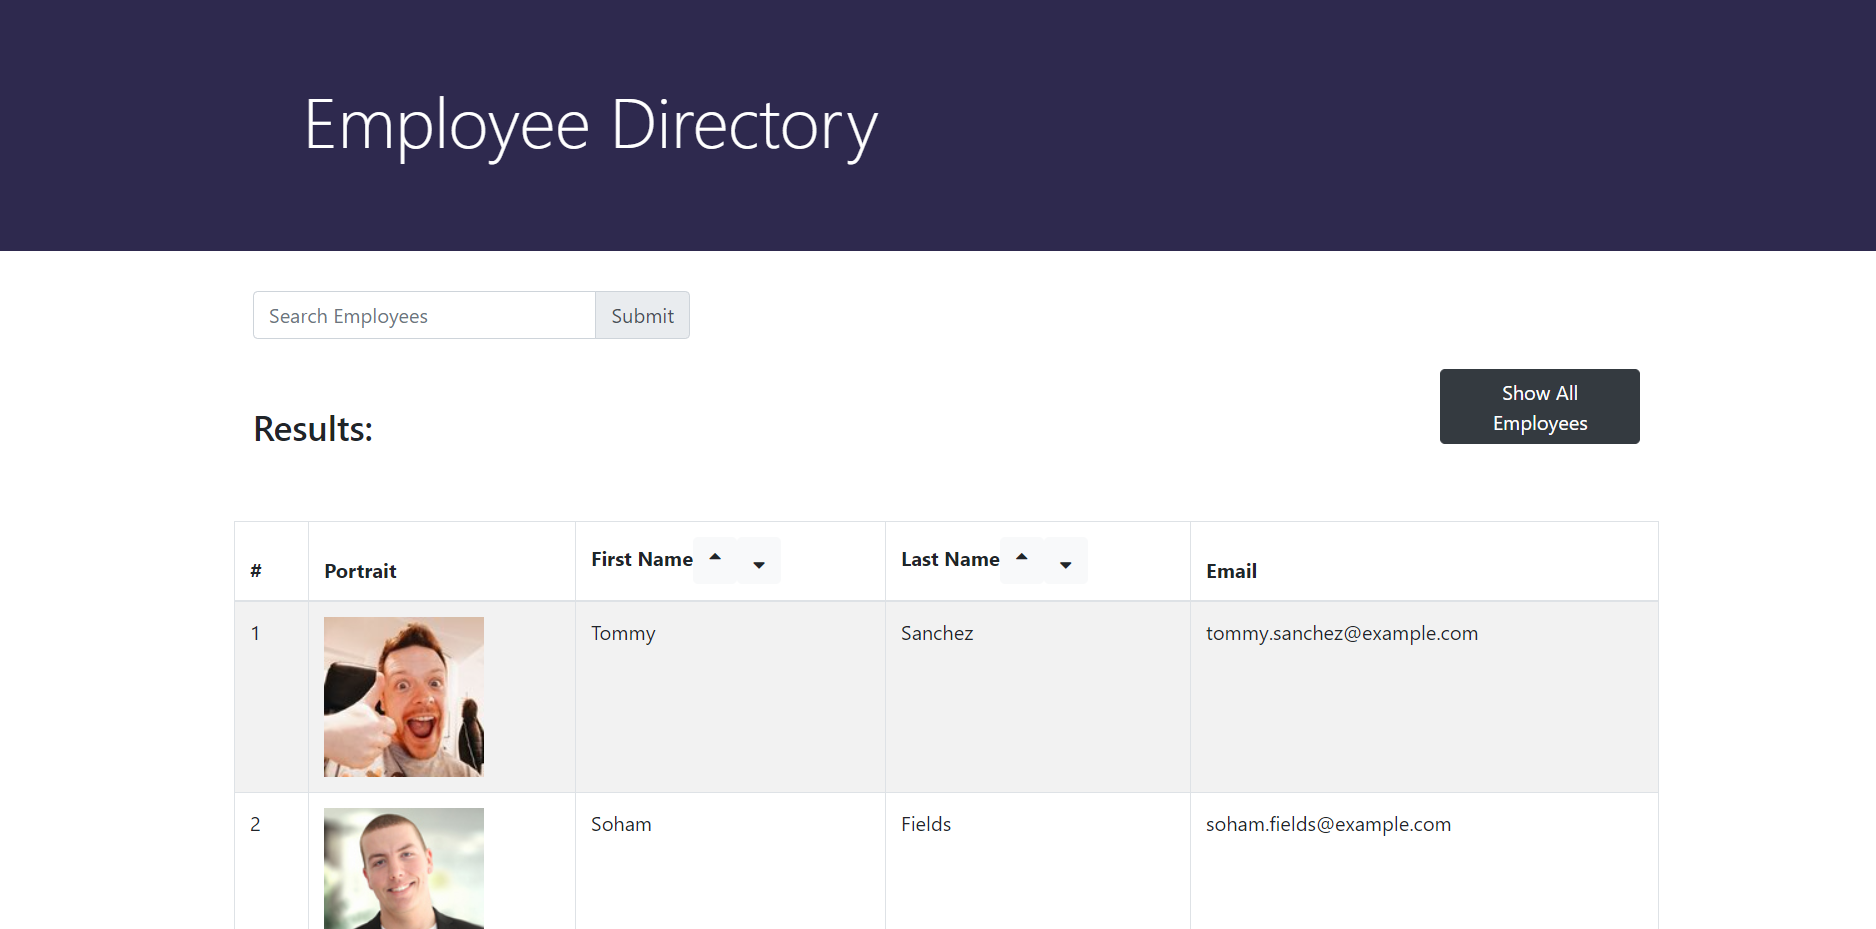
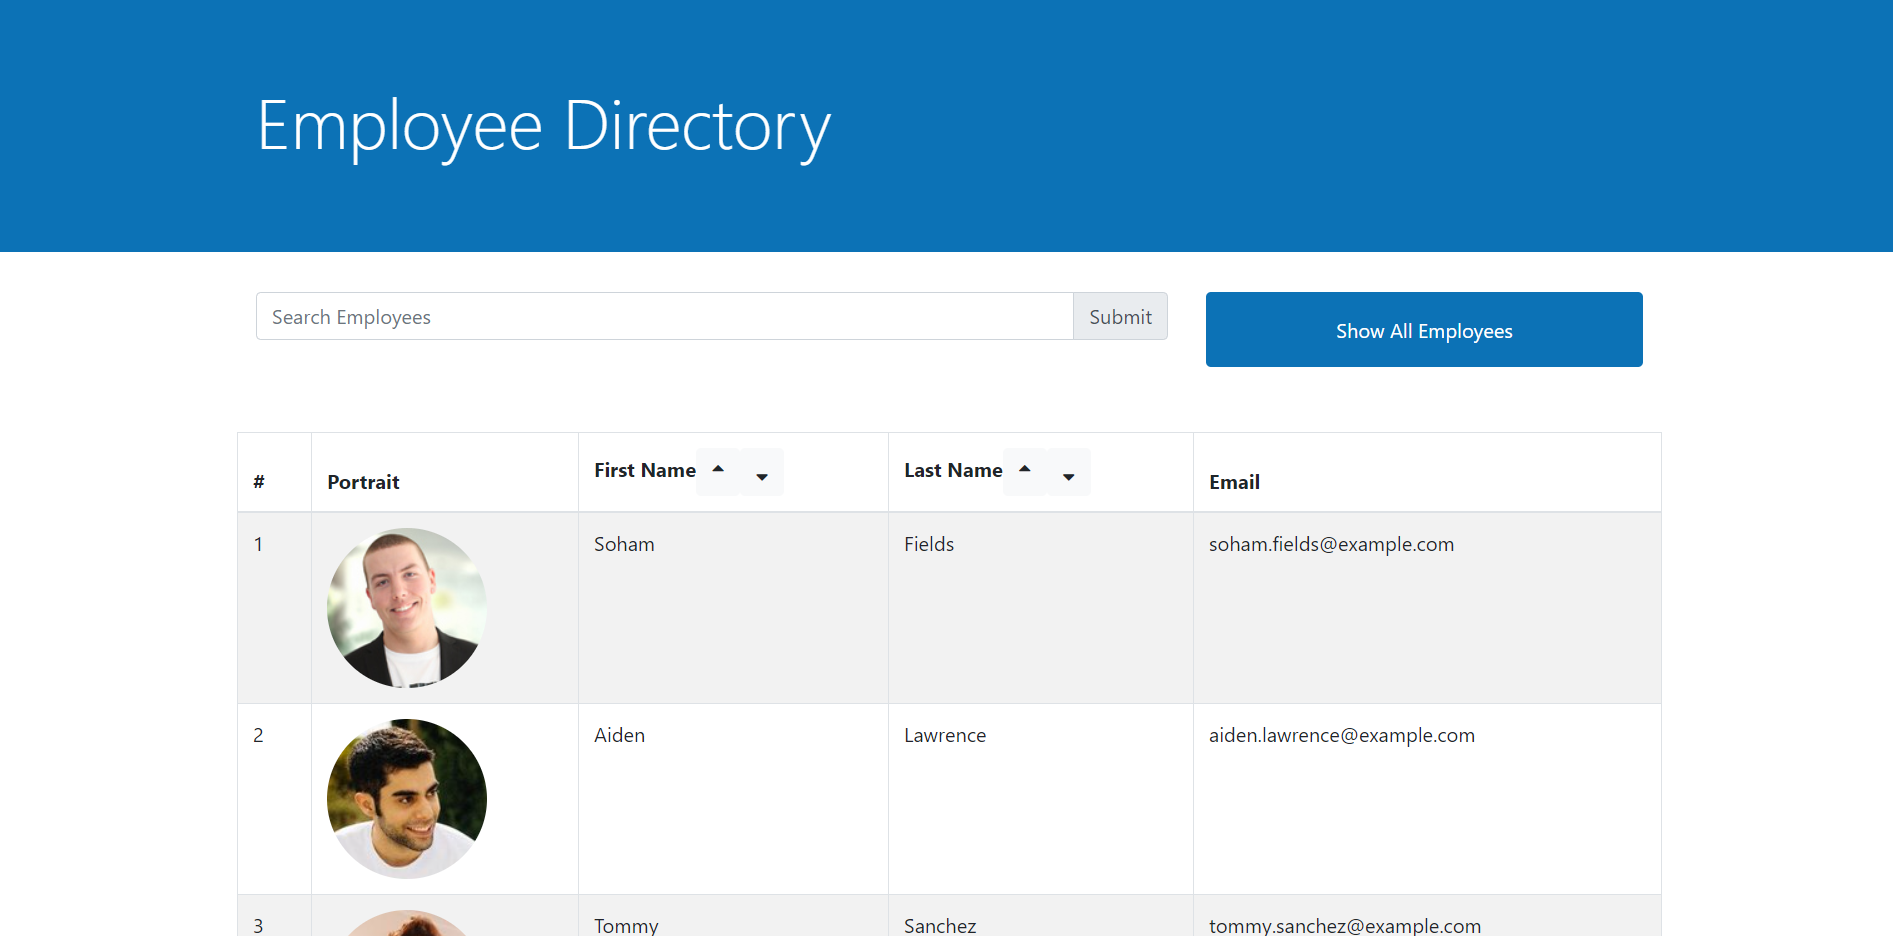
site is now mobile responsive

diff --git a/src/components/SearchContainer/index.js b/src/components/SearchContainer/index.js
@@ -57,9 +57,10 @@ class SearchContainer extends Component {
 
 
         // check if no search found
-        // if(this.state.results.length === employees.length ) {    
-        //     alert("No employees found - try again!");
-        // }
+        console.log(match);
+        if (match === undefined) {
+            alert("No employees found - try again!");
+        }
 
     }
 
@@ -152,7 +153,7 @@ class SearchContainer extends Component {
             <div>
                 <div className="container">
                     <div className="row">
-                        <form className="col-md-4 col-sm-8 col-12 input-group mb-4">
+                        <form className="col-sm-8 col-12 input-group mb-4">
                             <input className="form-control"
                                 value={this.state.search}
                                 name="search"
@@ -165,23 +166,17 @@ class SearchContainer extends Component {
                             </div>
                         </form>
 
-                    </div>
-                </div>
-
-                <div className="container">
-                    <div className="row">
-                        <h3 className="col-md-6 col-6 contentHeader">Results: {this.state.search} <span>{this.state.noSearch}</span> </h3>
-                        <div className="col-md-4 col-2" >  </div>
-                        <span className="col-md-2 col-4"> 
-                            <button type="button" className="showAllBtn btn btn-dark" onClick={this.getEmployees}> Show All Employees </button>
+                        <span className="col-sm-4 col-12"> 
+                            <button type="button" className="showAllBtn btn" onClick={this.getEmployees}> Show All Employees </button>
                         </span>
-                        
+
                     </div>
                 </div>
 
+
                 <div className="container">
                     <div className="row">
-                        <Table striped bordered hover className="employeeTable col-12">
+                        <Table responsive striped bordered hover className="employeeTable col-12">
                             <thead>
                                 <tr>
                                 <th>#</th>
@@ -205,7 +200,7 @@ class SearchContainer extends Component {
                                     return(
                                         <tr key={employeePostion}>
                                             <td> {employeePostion} </td>
-                                            <td> <img src={res.picture.large} alt="portait of employee" /> </td>
+                                            <td> <img src={res.picture.large} alt="portait of employee" style={{borderRadius: '50%'}} /> </td>
                                             <td>{res.name.first}</td>
                                             <td>{res.name.last}</td>
                                             <td>{res.email}</td>

diff --git a/src/components/Footer/index.js b/src/components/Footer/index.js
@@ -5,7 +5,7 @@ import "./style.css";
 function Footer() {
     return (
         <footer className="footer">
-            <div className="footerText">Plants & Co <span>&#169;</span> 2020</div>
+            <div className="footerText">Business <span>&#169;</span> 2020</div>
         </footer>
     );
 }

diff --git a/src/components/SearchContainer/style.css b/src/components/SearchContainer/style.css
@@ -4,7 +4,10 @@ h3.contentHeader {
 
 button.showAllBtn {
     height: 60px;
+    width: 100%;
     text-align: center;
+    color: white;
+    background-color: #0c72b6;
 }
 
 .employeeTable {

diff --git a/src/components/Header/style.css b/src/components/Header/style.css
@@ -1,5 +1,5 @@
 header.header {
-    background-color: #2E294E;
+    background-color: #0c72b6;
     color: white;
     width: 100%
 }
